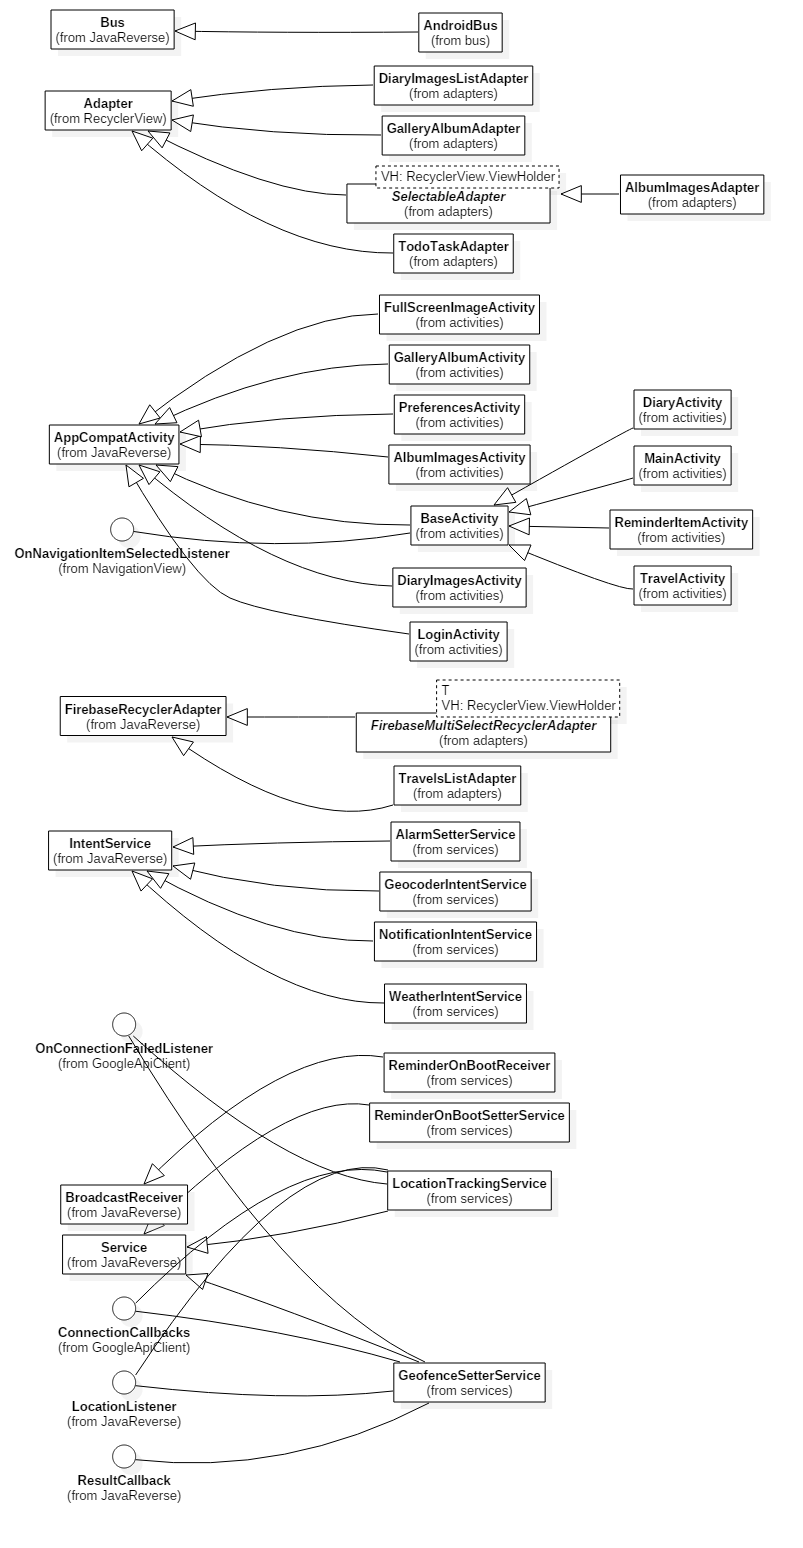
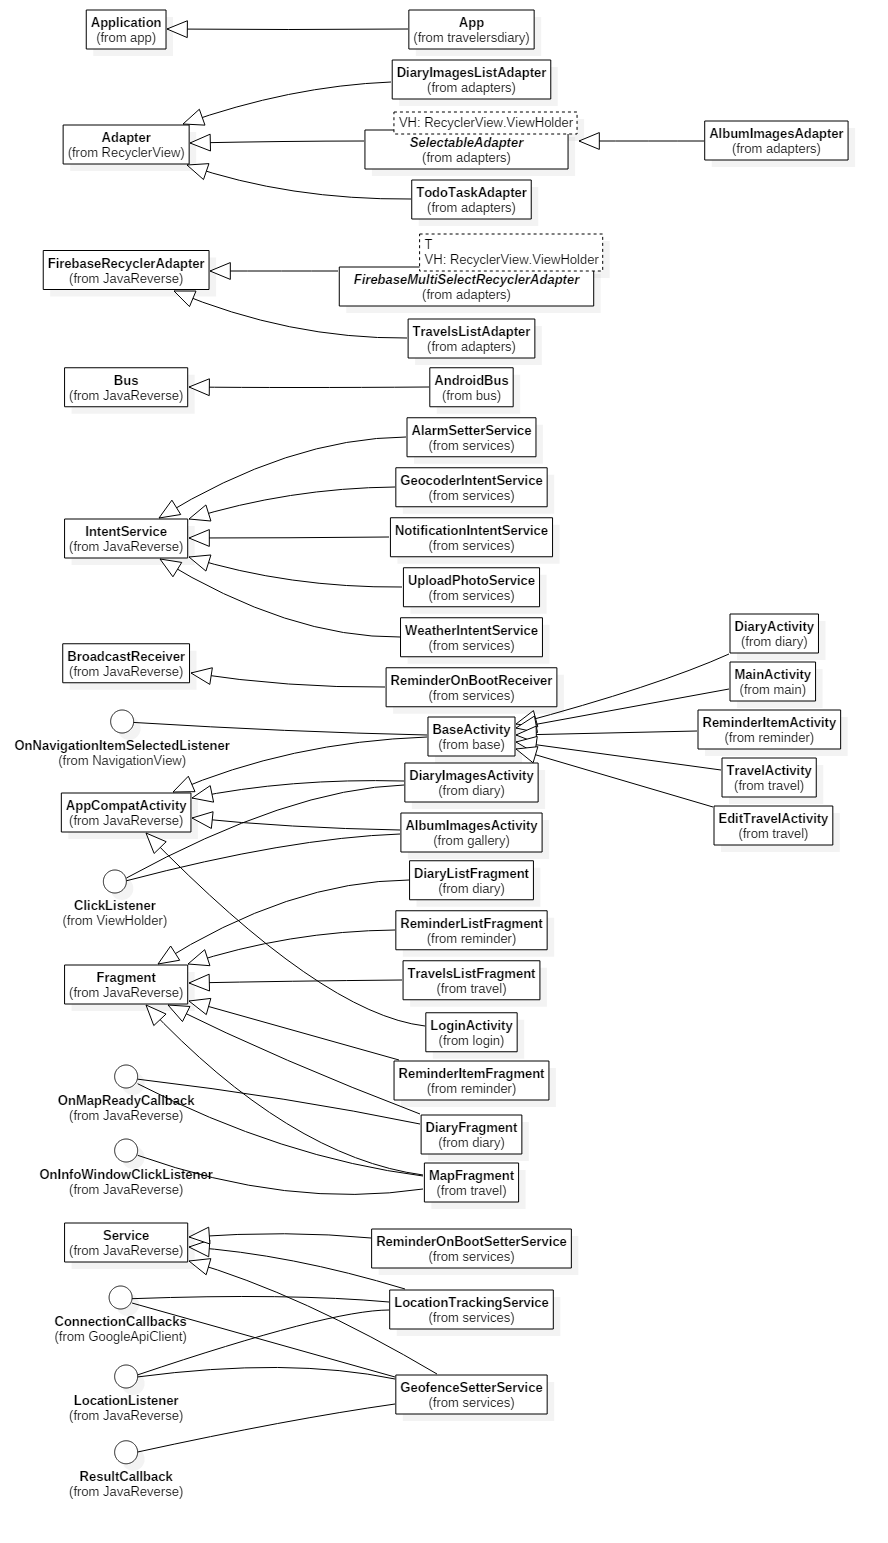
changed diagrams, added description

diff --git a/sections/3.tex b/sections/3.tex
@@ -17,23 +17,29 @@
 
 Створення архітектури – це проектування на найвищому рівні (логічна архітектура). Логічна архітектура описує систему в термінах її принципової організації у вигляді пакетів, програмних класів і підсистем. Вона називається логічною, оскільки не визначає способи розгортання цих елементів у різних операційних системах або на фізичних комп’ютерах в мережі (це відноситься до архітектури розгортання) \cite{diploma_guidelines}.
 
-Одним з найважливіших етапів архітектурного проектування є побудова діаграми пакетів. 
+Програмий додаток для операційної системи Android складається з набору активностей (activity), кожній з яких відповідає вікно додатку. Кожна активність представлена в проекті класом, що реалізований на мові Java та зберігається в однойменному файлі з розширенням .java. Кожній активності відповідає xml файл-опис. В xml-файлі описано розташування об'єктів, що візуалізуються. При запуску активності система Android автоматично розпізнає розмір екрану мобільного пристрою і приводить контент у відповідність з розміткою, описаної в xml-файлі. Таким чином, одна і та ж активність буде виглядати однаково незалежно від діагоналі пристрою, що використовується. 
 
-Діаграма пакетів є діаграмою, яка містить пакети класів і залежності між ними. Вона описує архітектурну основу системи і допомагає в управлінні масштабами і складністю системи. Діаграма пакетів для інформаційної системи зображена на рис. \ref{diagram:3.1}.
+Також, для кожного Android-додатку повинен існувати xml-файл, так званий маніфест (AndroidManifest), в якому будуть прописані мінімальні вимоги до системи, всі активності додатку, сервіси та дозволи, які потрібні додатку для функціонування \cite{pro_android}.
+
+Одним з важливих етапів архітектурного проектування є побудова діаграми пакетів. Діаграма пакетів є діаграмою, яка містить пакети класів і залежності між ними. Вона описує архітектурну основу системи і допомагає в управлінні масштабами і складністю системи. Діаграма пакетів для додатку зображена на рис. \ref{diagram:packages}.
 \vspace{\baselineskip}
-
-%TODO: change diagram after refactoring
 
 \begin{figure}[H]
 	\centering
 	\includegraphics[width=1\textwidth]{diagram_packages}
-	\caption{Діаграма пакетів інформаційної системи}
-	\label{diagram:3.1}
+	\caption{Діаграма пакетів для Android-щоденника}
+	\label{diagram:packages}
 \end{figure}
 
-Ще одним будівельним блоком для створення архітектури об'єктно-орієнтованої системи вважається компонент. \cite{diploma_guidelines}
+Пакет \textit{\textbf{adapters}} призначений для адаптерів. Адаптер -- це об'єкт, що діє як міст між предсталенням (view) і даними для цього представлення. Він забезпечує доступ до елементів даних. Також, адаптер відповідальний за подання представлення для кожного елемента в наборі даних \cite{adapter}. 
 
-Діаграма компонентів показує розбиття програмної системи на структурні компоненти та залежності між компонентами. В якості фізичних компонентів можуть бути файли, бібліотеки, модулі, виконувані файли, пакети і т.п. У багатьох середовищах розробки модуль або компонент відповідає файлу. Стрілки, що з'єднують модулі, показують відносини взаємозалежності аналогічні тим, які мають місце при компіляції вихідних текстів програм. Основними графічними елементами діаграми компонентів є компоненти, інтерфейси і залежності між ними. Діаграму компонентів для інформаційної системи зображено на рис. \ref{diagram:3.2}.
+В пакеті \textit{\textbf{models}} будуть знаходитися класи моделей, що необхідні для взаємодії з базою даних чи іншими сервісами. Пакет \textit{\textbf{screens}} призначений для класів активностей, що являють собою окремі екрани додатку, тому в нього були додані додаткові пакети, щоб розділити екрани по областях, за які вони відповідають.
+
+Пакет \textit{\textbf{services}} буде містити сервіси. В Android сервіс (або служба) -- це компонент додатку, котрий може виконувати	довготривалі операції в фоновому режимі і не містить користувацького інтерфейсу.
+
+Ще одним будівельним блоком для створення архітектури об'єктно-орієнтованої системи вважається компонент. Діаграма компонентів показує розбиття програмної системи на структурні компоненти та залежності між компонентами. В якості фізичних компонентів можуть бути файли, бібліотеки, модулі, виконувані файли, пакети і т.п. У багатьох середовищах розробки модуль або компонент відповідає файлу. Стрілки, що з'єднують модулі, показують відносини взаємозалежності аналогічні тим, які мають місце при компіляції вихідних текстів програм. Основними графічними елементами діаграми компонентів є компоненти, інтерфейси і залежності між ними. 
+
+Діаграму компонентів для Android-щоденника зображено на рис. \ref{diagram:hierarchy}.
 
 %TODO: describe this
 
@@ -41,7 +47,7 @@
 	\centering
 	\includegraphics[height=0.8\textheight]{diagram_hierarchy}
 	\caption{Діаграма компонентів Android-щоденника}
-	\label{diagram:3.2}
+	\label{diagram:hierarchy}
 \end{figure}
 
 \section{Детальне проектування}
@@ -51,13 +57,13 @@
 У програмуванні структури даних ‒ це способи організації даних в комп’ютерах. Часто разом зі структурою даних пов’язується і специфічний перелік операцій, які можуть бути виконаними над даними.
 Правильний підбір структур даних є надзвичайно важливим для ефективного функціонування відповідних алгоритмів їх обробки. Добре побудовані структури даних дозволяють оптимізувати використання машинного часу та пам’ятті комп’ютера для виконання найбільш критичних операцій.
 
-Логічна будова інформаційної системи (див. рис. \ref{diagram:3.3}) побудована  за допомогою UML-діаграми класів, яка служить для представлення статичної структури моделі системи в термінології класів об’єктно-орієнтованого програмування.
+Логічна будова інформаційної системи (див. рис. \ref{diagram:models}) побудована  за допомогою UML-діаграми класів, яка служить для представлення статичної структури моделі системи в термінології класів об’єктно-орієнтованого програмування.
 
 \begin{figure}[H]
 	\centering
 	\includegraphics[height=0.8\textheight]{diagram_models}
 	\caption{Діаграма моделей Android-щоденника}
-	\label{diagram:3.3}
+	\label{diagram:models}
 \end{figure}
 
 Дані моделі використовуються для збереження об'єктів до бази даних та їх отримання.
